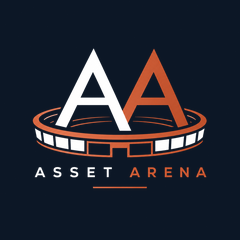
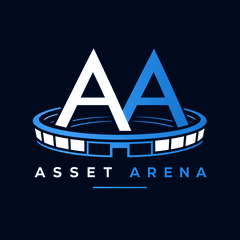
Switch site palette to Asset Arena blue brand colors
Claude-Session: https://claude.ai/code/session_01WLqaW9FMgY1wLuvfpgpUeJ

Changed region(s): [[0.1167, 0.2042, 0.875, 0.7583], [0.3792, 0.7, 0.6125, 0.7875], [0.8167, 0.7, 0.875, 0.7583]]

diff --git a/assets/style.css b/assets/style.css
@@ -1,9 +1,9 @@
 :root{
-  --night:#0C1726;--night-2:#14223A;--night-line:#26364F;
-  --paper:#F6F3EC;--card:#FFFFFF;--line:#DDD6C7;
-  --text:#141B24;--muted:#4C5664;--dim:#6B7380;
-  --accent:#E0592A;--accent-ink:#FFFFFF;--accent-dark:#B8441B;
-  --gold:#D9B66E;
+  --night:#01091D;--night-2:#0A1838;--night-line:#16284F;
+  --paper:#F3F6FB;--card:#FFFFFF;--line:#D5DDEA;
+  --text:#0B1428;--muted:#465269;--dim:#67728A;
+  --accent:#1A8CF5;--accent-ink:#FFFFFF;--accent-dark:#0B5FD0;
+  --gold:#07A4FB;
 }
 *{box-sizing:border-box}
 html{scroll-behavior:smooth}
@@ -41,8 +41,8 @@ nav a.btn{color:#fff;min-height:40px;padding:9px 18px}
 .hero{background:var(--night);color:#fff;padding:80px 0 96px}
 .eyebrow{display:flex;align-items:center;gap:10px;margin:0 0 18px;font:500 13px 'IBM Plex Mono',monospace;letter-spacing:.16em;text-transform:uppercase;color:var(--accent)}
 .eyebrow.dark{color:var(--accent-dark)}
-.pulse{width:9px;height:9px;border-radius:50%;background:var(--accent);box-shadow:0 0 0 0 rgba(224,89,42,.6);animation:pulse 2s infinite}
-@keyframes pulse{70%{box-shadow:0 0 0 10px rgba(224,89,42,0)}100%{box-shadow:0 0 0 0 rgba(224,89,42,0)}}
+.pulse{width:9px;height:9px;border-radius:50%;background:var(--accent);box-shadow:0 0 0 0 rgba(26,140,245,.6);animation:pulse 2s infinite}
+@keyframes pulse{70%{box-shadow:0 0 0 10px rgba(26,140,245,0)}100%{box-shadow:0 0 0 0 rgba(26,140,245,0)}}
 @media (prefers-reduced-motion:reduce){.pulse{animation:none}html{scroll-behavior:auto}}
 .hero h1{font:500 clamp(40px,6vw,76px)/1.03 'Newsreader',Georgia,serif;letter-spacing:-.015em;margin:0;max-width:900px}
 .lede{font-size:20px;color:#C9D1DD;max-width:640px;margin:26px 0 0}
@@ -50,7 +50,7 @@ nav a.btn{color:#fff;min-height:40px;padding:9px 18px}
 
 /* sections */
 .section{padding:72px 0}
-.section.alt{background:#EDE8DC}
+.section.alt{background:#E8EEF7}
 .section-head{display:flex;align-items:baseline;justify-content:space-between;gap:16px;border-bottom:2px solid var(--text);padding-bottom:12px;margin-bottom:28px}
 .section-head h2,.page-title,.about h2,.cta-band h2{font:500 clamp(28px,3.4vw,40px)/1.1 'Newsreader',Georgia,serif;margin:0}
 .section-intro{color:var(--muted);max-width:680px;margin:-8px 0 28px}
@@ -118,7 +118,7 @@ nav a.btn{color:#fff;min-height:40px;padding:9px 18px}
 .release-about h3,.release-contact h3{font:600 14px 'IBM Plex Mono',monospace;text-transform:uppercase;letter-spacing:.1em;margin:0 0 8px;color:var(--dim)}
 .release-about p,.release-contact p{margin:0 0 20px;color:var(--muted)}
 .tags{display:flex;flex-wrap:wrap;gap:8px;margin-top:8px}
-.tag{font-size:13px;background:#E7E1D3;border-radius:999px;padding:3px 10px;color:var(--muted)}
+.tag{font-size:13px;background:#E2E9F4;border-radius:999px;padding:3px 10px;color:var(--muted)}
 .share{display:flex;flex-wrap:wrap;gap:10px;margin-top:32px}
 .draft-banner{background:#333;color:#fff;padding:10px 14px;border-radius:10px;font-weight:600}
 .cta-band .wrap{display:flex;flex-wrap:wrap;gap:20px;align-items:center;justify-content:space-between}
@@ -129,7 +129,7 @@ form{margin-top:12px}
 .grid{display:grid;grid-template-columns:repeat(auto-fit,minmax(260px,1fr));gap:16px}
 .full{grid-column:1/-1}
 label{display:flex;flex-direction:column;gap:6px;font-size:14px;font-weight:500;color:var(--muted)}
-input,select,textarea{background:var(--card);border:1px solid #CFC7B5;border-radius:10px;padding:12px 14px;color:var(--text);font:16px 'IBM Plex Sans',sans-serif}
+input,select,textarea{background:var(--card);border:1px solid #C9D3E3;border-radius:10px;padding:12px 14px;color:var(--text);font:16px 'IBM Plex Sans',sans-serif}
 input:focus,select:focus,textarea:focus{outline:2px solid var(--accent);outline-offset:1px}
 textarea{resize:vertical}
 .plans-pick{border:0;padding:0;margin:0;display:grid;grid-template-columns:repeat(auto-fit,minmax(260px,1fr));gap:12px}
@@ -165,7 +165,7 @@ textarea{resize:vertical}
 /* images */
 .item.has-thumb{display:flex;gap:22px;align-items:flex-start}
 .item-text{flex:1;min-width:0}
-.thumb{flex:0 0 168px;aspect-ratio:16/10;border-radius:10px;overflow:hidden;background:#E7E1D3;margin-top:4px}
+.thumb{flex:0 0 168px;aspect-ratio:16/10;border-radius:10px;overflow:hidden;background:#E2E9F4;margin-top:4px}
 .thumb img{width:100%;height:100%;object-fit:cover;display:block}
 .release-figure{margin:28px 0 0}
 .release-figure img{width:100%;max-height:520px;object-fit:contain;background:#EDE8DC;border-radius:14px;display:block}
@@ -177,3 +177,12 @@ textarea{resize:vertical}
 .preview img{max-width:220px;max-height:140px;border-radius:10px;border:1px solid var(--line)}
 @media (max-width:640px){.thumb{flex-basis:96px}}
 .preview[hidden]{display:none}
+
+/* banner style touches */
+.masthead{border-bottom:2px solid var(--accent)}
+.hero{background:radial-gradient(1200px 500px at 100% 0%,rgba(26,140,245,.22),transparent 60%),var(--night)}
+.btn-accent{background:linear-gradient(90deg,#0A6FE0,#1A8CF5 60%,#07A4FB)}
+.btn-accent:hover{background:linear-gradient(90deg,#0A5FC8,#0A6FE0)}
+.btn-ghost-dark{border-color:var(--accent)}
+.fm{background:var(--gold);color:#01091D}
+.plan-featured{background:radial-gradient(500px 300px at 100% 0%,rgba(26,140,245,.25),transparent 70%),var(--night)}
